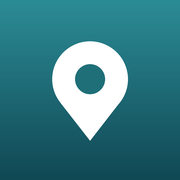
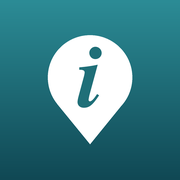
Add files via upload

Changed region(s): [[0.25, 0.1944, 0.75, 0.8056]]

diff --git a/index.html b/index.html
@@ -62,6 +62,10 @@ select{width:100%;font:inherit;color:var(--ink);background:var(--bg);border:1px 
 .it:hover,.it:focus-visible{background:var(--bg)}
 .it.sub{padding-left:28px;font-size:15px;color:var(--muted)}
 .chk{display:flex;gap:8px;align-items:center;color:var(--ink)}
+.tpin{display:inline-block;height:1.05em;vertical-align:-0.14em;margin:0 1px}
+.tpin svg{display:block;height:100%;width:auto}
+.pinLife{background:none;border:0}
+.pinLife svg{display:block;width:34px;height:44px;filter:drop-shadow(0 1px 2px rgba(0,0,0,.35))}
 input[type=checkbox]{width:auto;margin:0}
 .aviso{color:#b3261e;font-size:14px;margin:-6px 0 12px;min-height:1em}
 </style>
@@ -74,7 +78,7 @@ input[type=checkbox]{width:auto;margin:0}
 </head>
 <body>
 <main>
-<div class="top"><button class="ic" id="btnMenu" type="button" aria-label="Abrir menú">☰</button><h1>Life</h1><button class="ic" id="btnNuevo" type="button" aria-label="Nuevo recuerdo">+</button></div>
+<div class="top"><button class="ic" id="btnMenu" type="button" aria-label="Abrir menú">☰</button><h1 aria-label="Life">L<span class="tpin" id="tpin"></span>fe</h1><button class="ic" id="btnNuevo" type="button" aria-label="Nuevo recuerdo">+</button></div>
 <p id="saludo" style="margin:-8px 0 14px;color:var(--muted)"></p>
 <div id="mapaBox"><div id="mapa"></div></div>
 <div id="secForm" style="display:none">
@@ -440,9 +444,10 @@ function iniciarMapa(){
 function pintarPines(){
   if(!capa) return;
   capa.clearLayers();
+  var ic = L.divIcon({html: PIN_SVG, className: "pinLife", iconSize: [34, 44], iconAnchor: [17, 44]});
   filtradas(false).forEach(function(n){
     if(!n.ubicacion) return;
-    var m = L.marker([n.ubicacion.lat, n.ubicacion.lon], {title: n.titulo || "Recuerdo"});
+    var m = L.marker([n.ubicacion.lat, n.ubicacion.lon], {title: n.titulo || "Recuerdo", icon: ic});
     m.on("click", function(){ irARecuerdo(n.id); });
     capa.addLayer(m);
   });
@@ -698,7 +703,9 @@ document.getElementById("lugar").oninput = function(){
   if(q.length < 3){ document.getElementById("sugs").textContent = ""; return; }
   tAuto = setTimeout(function(){ sugerir(q); }, 500);
 };
-var VERSION_APP = "1.1";
+var PIN_SVG = '<svg xmlns="http://www.w3.org/2000/svg" viewBox="0 0 40 52" aria-hidden="true"><path d="M20 50L34.4 27A17 17 0 1 0 5.6 27Z" style="fill:var(--accent);stroke:var(--surface);stroke-width:1.5;stroke-linejoin:round"/><path d="M23.59 24.81 22.83 24.33 22.34 25.02C21.45 26.36 20.66 27.09 20.14 27.09C19.86 27.09 19.62 26.84 19.62 26.57C19.62 26.26 19.79 25.36 19.93 24.78L23.07 13.26C21.21 13.67 18.79 14.02 16.1 14.22V15.16H16.55C17.59 15.16 18.14 15.5 18.14 16.16C18.14 16.43 18.03 16.95 17.9 17.53L15.9 24.95C15.62 25.95 15.45 26.84 15.45 27.33C15.45 28.64 16.41 29.5 17.83 29.5C19.9 29.5 21.17 28.47 23.59 24.81ZM24.55 8.84C24.55 7.57 23.48 6.5 22.17 6.5C20.97 6.5 19.9 7.57 19.9 8.78C19.9 10.12 20.9 11.16 22.17 11.16C23.48 11.16 24.55 10.12 24.55 8.84Z" style="fill:var(--surface)"/></svg>';
+document.getElementById("tpin").innerHTML = PIN_SVG;
+var VERSION_APP = "1.2";
 document.getElementById("verApp").textContent = "Versión " + VERSION_APP;
 document.getElementById("itAct").onclick = async function(){
   var est = document.getElementById("verApp");
